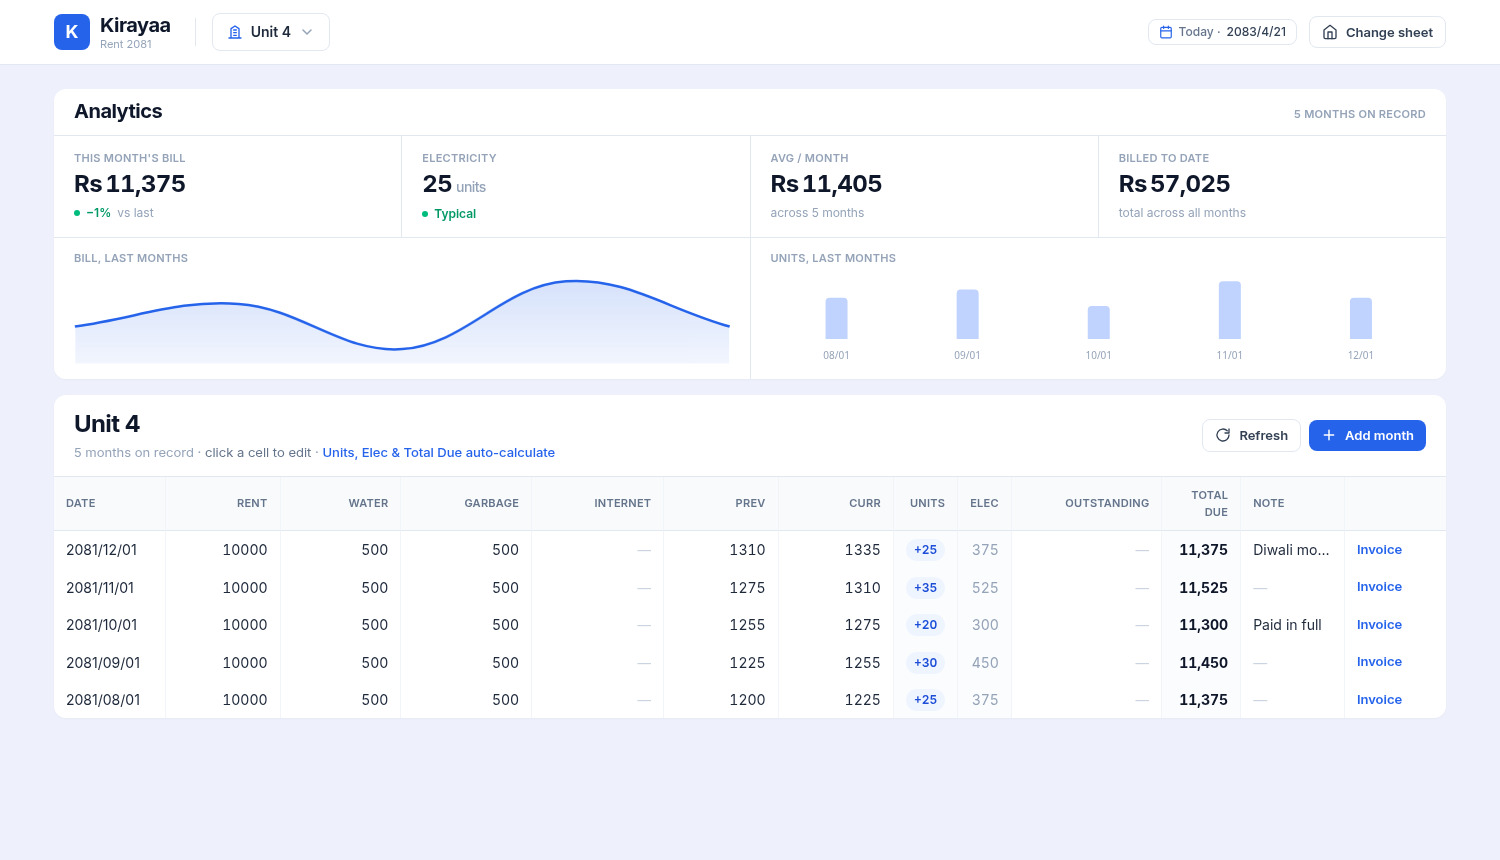
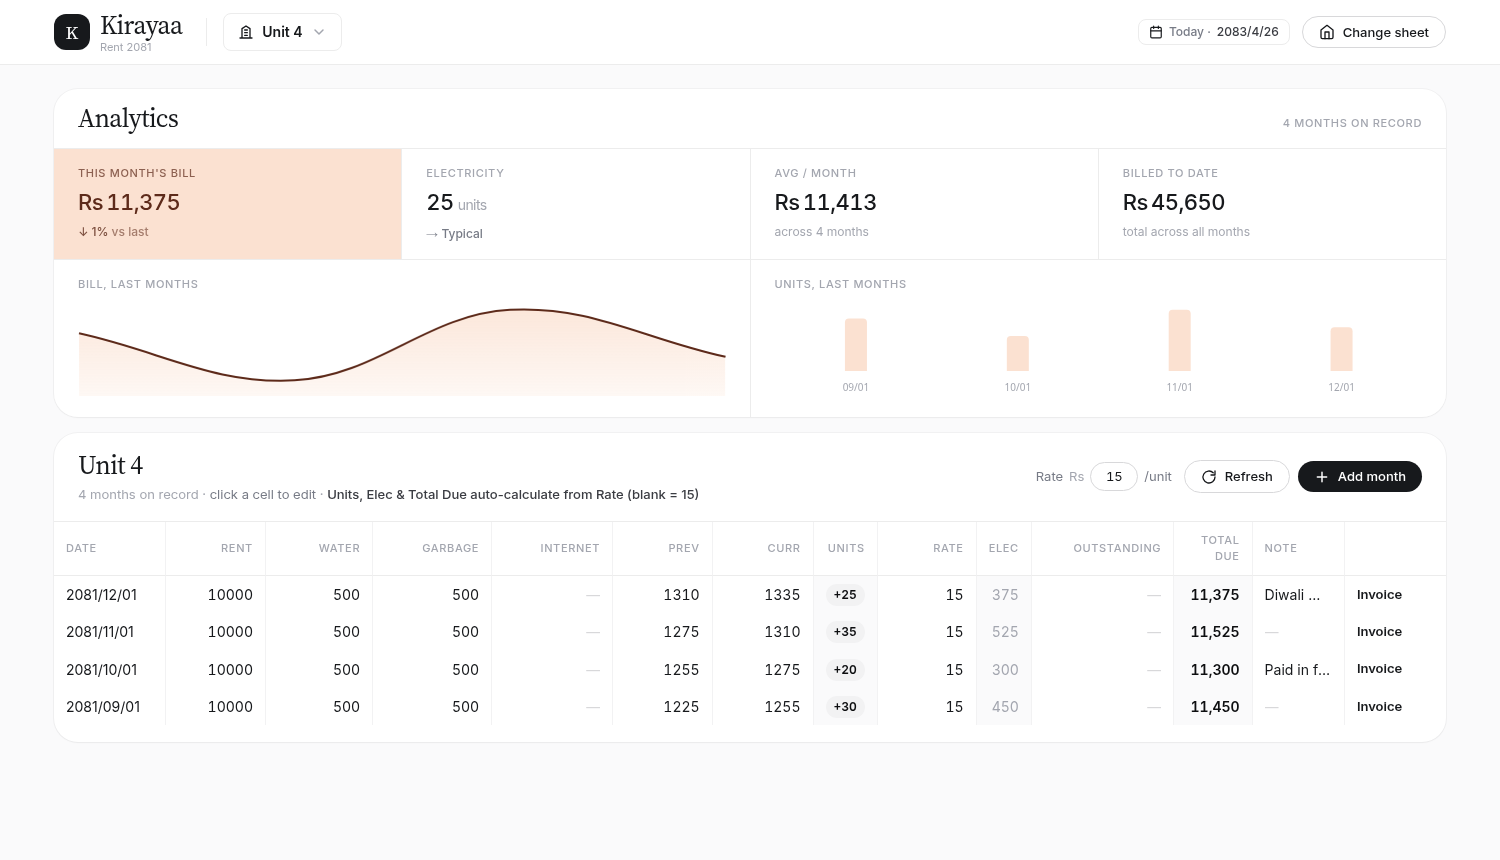
docs: document the Rate column and refresh screenshots for the Steep UI

diff --git a/README.md b/README.md
@@ -35,7 +35,7 @@ It's built to open once a month, calculate rent, and send bills — fast.
 
 - 🔐 **Sign in with Google**, then pick your sheet from Drive's own file chooser — least-privilege `drive.file` scope means the app can only touch the one file you pick.
 - 📝 **Editable spreadsheet** — edits are *optimistic* (instant UI) and write through to Google Sheets in the background.
-- ⚡ **Electricity from the meter** — enter Prev/Curr readings; units, electricity, and the total recompute automatically.
+- ⚡ **Electricity from the meter** — enter Prev/Curr readings; units, electricity, and the total recompute automatically at each month's **Rate** (a per-row column, blank = Rs 15). Edit a month's Rate to reprice just it, or the whole sheet.
 - 📊 **Dense analytics** — this-month bill (with % change), an electricity **anomaly flag** (higher / typical / lower than the tenant's average), average monthly bill, total billed to date, and bill/units trend charts.
 - 🧾 **Invoices** — clean PNG/PDF per month, with the tenant's note included.
 - ➕ **Add month** (auto-filled from the previous month) · 🗑 **delete row** (with confirmation) · ✏ **rename tab** — all write to the sheet.
@@ -58,7 +58,7 @@ It's built to open once a month, calculate rent, and send bills — fast.
 
 ## Sheet format
 
-One tab per tenant, columns in this order (**A → L**):
+One tab per tenant, columns in this order (**A → M**):
 
 | Col | Header | Filled by | Meaning |
 |-----|--------|-----------|---------|
@@ -70,10 +70,11 @@ One tab per tenant, columns in this order (**A → L**):
 | F | Prev Meter | you | Last month's electricity reading |
 | G | Curr Meter | you | This month's reading |
 | H | Units | **auto** | `Curr − Prev` |
-| I | Electricity | **auto** | `Units × rate` (default Rs. 15) |
+| I | Electricity | **auto** | `Units × Rate` |
 | J | Outstanding | you | Unpaid balance carried in — blank if none |
 | K | Total Due | **auto** | `Rent + Water + Garbage + Internet + Electricity + Outstanding` |
 | L | Note | text | Free-text — printed on the invoice |
+| M | Rate | you | Electricity rate per unit — **blank = Rs 15** |
 
 - The **auto** columns are computed and written back on save — you can leave them blank.
 - Each row is **self-contained** (stores both meters), so invoices don't depend on the row above.
